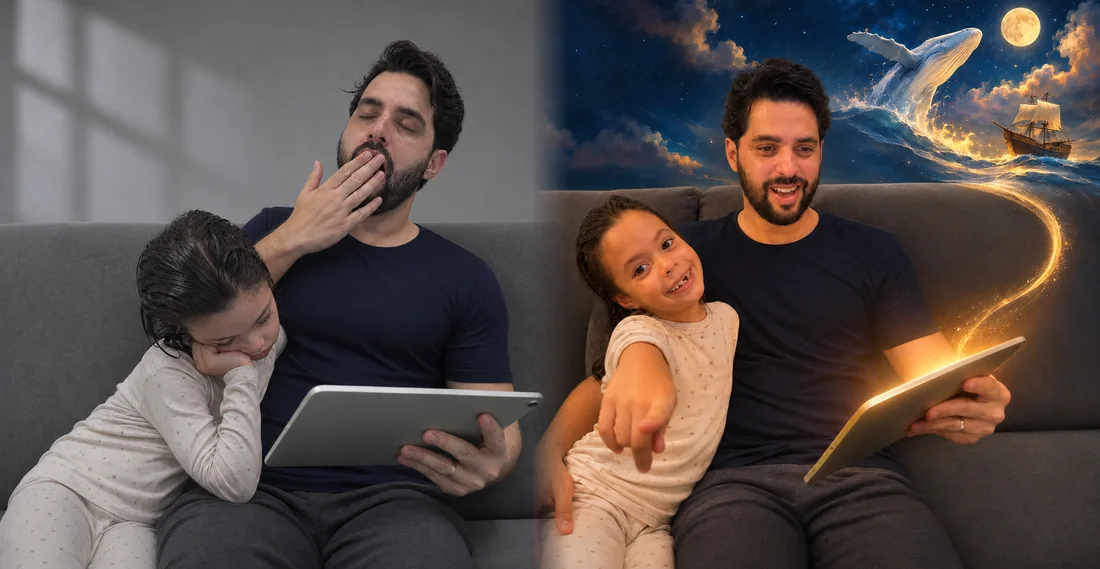
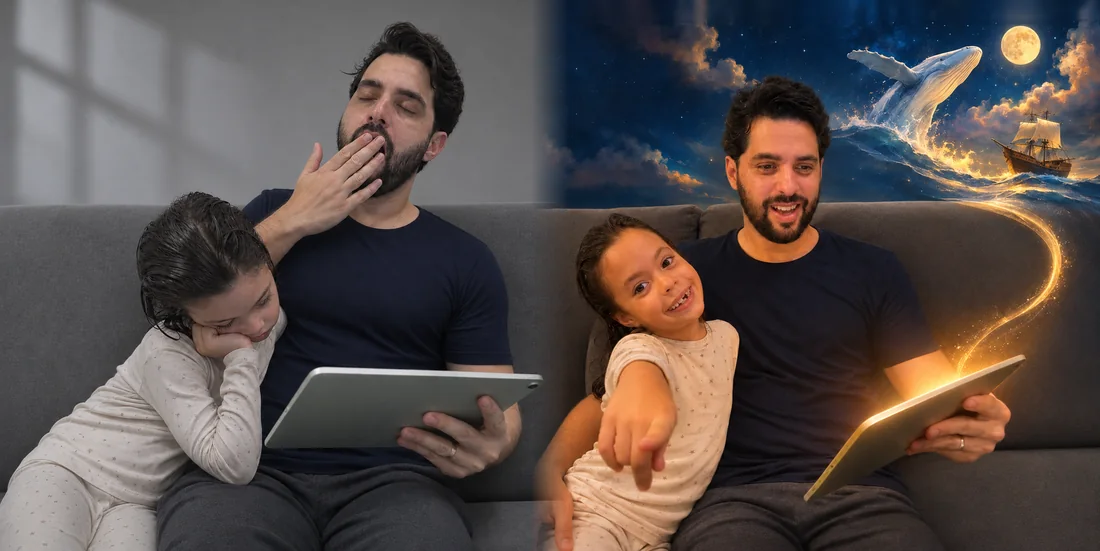
Origem: encosto do sofá na mesma altura nas duas metades
Claude-Session: https://claude.ai/code/session_01KvAZ7XPPHCjHbd3L7L9vJR

diff --git a/landing/index.html b/landing/index.html
@@ -137,14 +137,14 @@ nav .btn{min-height:40px;padding:0 18px;font-size:14px}
 .origin img{border-radius:16px;width:100%;box-shadow:var(--shadow)}
 /* Cena do antes e depois. Do lado animado, o Bento surge por trás do sofá de tempos em tempos (como no vídeo da família).
    A janela dele termina exatamente no encosto do sofá, então ele sobe "de trás" do sofá. */
-.origem-cena{position:relative;border-radius:16px;overflow:hidden;box-shadow:var(--shadow);aspect-ratio:1740/900}
+.origem-cena{position:relative;border-radius:16px;overflow:hidden;box-shadow:var(--shadow);aspect-ratio:1740/871}
 .origem-cena>img{display:block;width:100%;height:100%;border-radius:0;box-shadow:none}
-.origem-bento{position:absolute;left:74.7%;width:5.75%;top:17.6%;height:14.6%;overflow:hidden;pointer-events:none}
-.origem-bento img{position:absolute;left:0;bottom:0;width:100%;height:78.2%;border-radius:0;box-shadow:none}
+.origem-bento{position:absolute;left:74.7%;width:5.73%;top:21.5%;height:15.09%;overflow:hidden;pointer-events:none}
+.origem-bento img{position:absolute;left:0;bottom:0;width:100%;height:78.1%;border-radius:0;box-shadow:none}
 /* Com JavaScript, o Bento começa escondido e surge uma vez só quando a seção aparece; termina na tela. Sem JavaScript ou com movimento reduzido, ele já está lá. */
 .origem-cena.anima .origem-bento img{transform:translateY(105%)}
 .origem-cena.anima.viva .origem-bento img{animation:bento-espia 1.4s ease-out 1s both}
-.origem-brilho{position:absolute;left:87.2%;top:61.4%;width:22%;aspect-ratio:1;transform:translate(-50%,-50%);border-radius:50%;background:radial-gradient(closest-side,rgba(255,200,110,.45),rgba(255,200,110,0));mix-blend-mode:screen;pointer-events:none;opacity:0}
+.origem-brilho{position:absolute;left:87.2%;top:66.7%;width:22%;aspect-ratio:1;transform:translate(-50%,-50%);border-radius:50%;background:radial-gradient(closest-side,rgba(255,200,110,.45),rgba(255,200,110,0));mix-blend-mode:screen;pointer-events:none;opacity:0}
 .origem-cena.viva .origem-brilho{animation:tablet-brilho 2.4s ease-out .2s both}
 @keyframes bento-espia{
   0%{transform:translateY(105%)}
@@ -613,9 +613,9 @@ details[open] summary::after{transform:rotate(180deg)}
 <section class="band origin">
   <div class="wrap">
     <div class="origem-cena" role="img" aria-label="O mesmo pai e a mesma filha com o mesmo tablet: à esquerda entediados; à direita encantados, com uma baleia saindo da tela, e o irmão aparecendo por trás do sofá para ver">
-      <img loading="lazy" decoding="async" width="1740" height="900" src="../images/secoes/origem-cena.webp" srcset="../images/secoes/origem-cena-1100.webp 1100w, ../images/secoes/origem-cena.webp 1740w" sizes="(max-width: 900px) 100vw, 60vw" alt="">
+      <img loading="lazy" decoding="async" width="1740" height="871" src="../images/secoes/origem-cena.webp?v=2" srcset="../images/secoes/origem-cena-1100.webp?v=2 1100w, ../images/secoes/origem-cena.webp?v=2 1740w" sizes="(max-width: 900px) 100vw, 60vw" alt="">
       <i class="origem-brilho" aria-hidden="true"></i>
-      <span class="origem-bento" aria-hidden="true"><img loading="lazy" decoding="async" src="../images/secoes/origem-bento.webp" alt=""></span>
+      <span class="origem-bento" aria-hidden="true"><img loading="lazy" decoding="async" src="../images/secoes/origem-bento.webp?v=2" alt=""></span>
     </div>
     <div class="story">
       <h2>Começou com a Giovana</h2>
